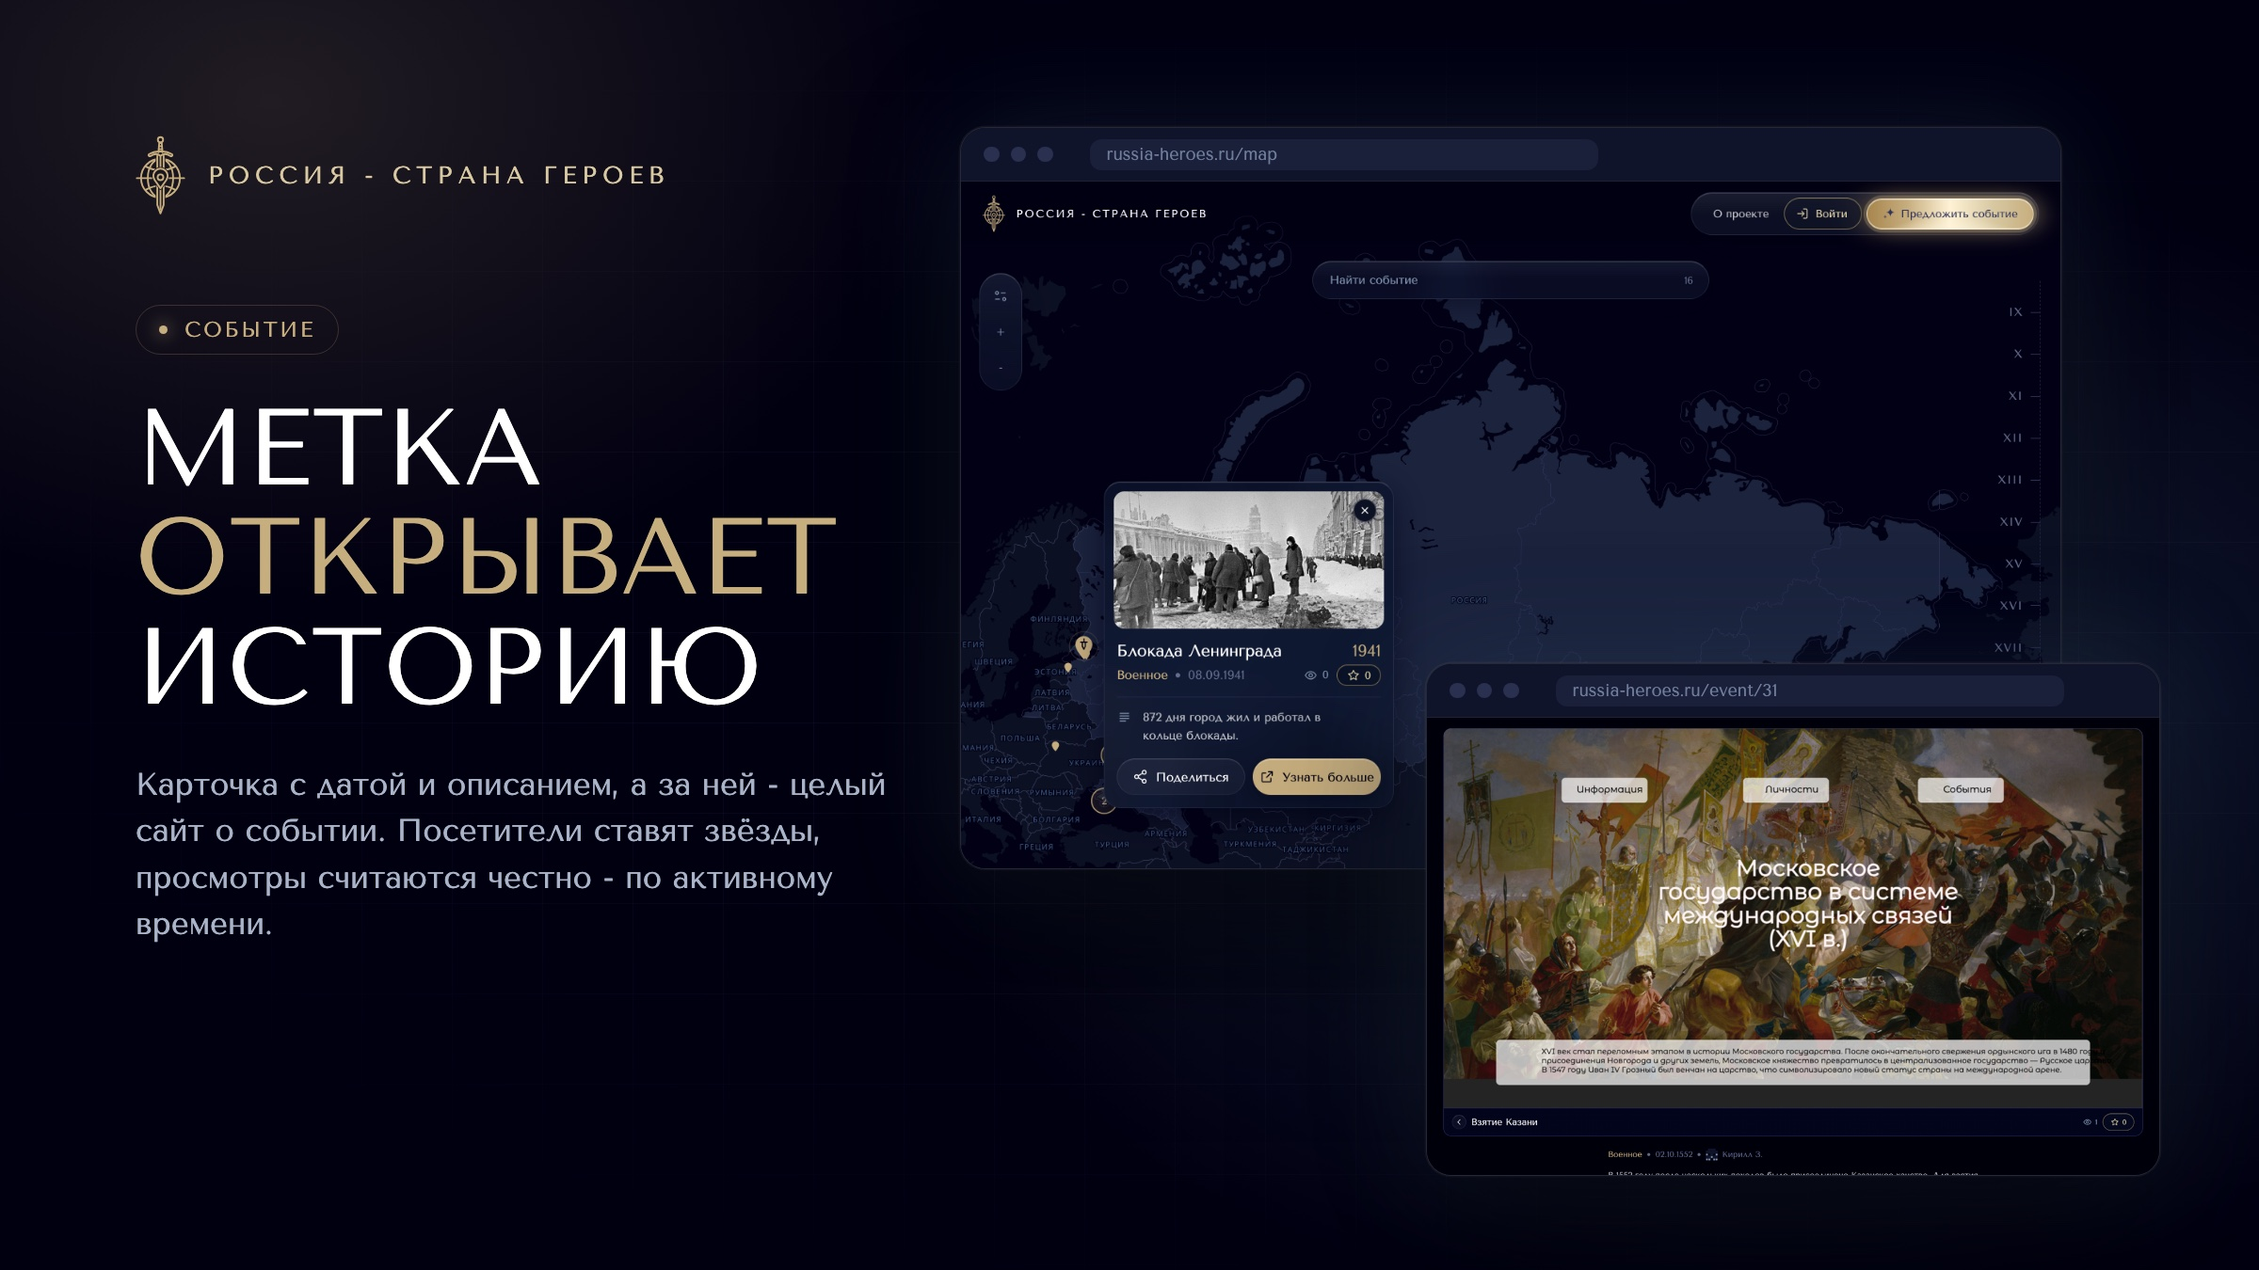
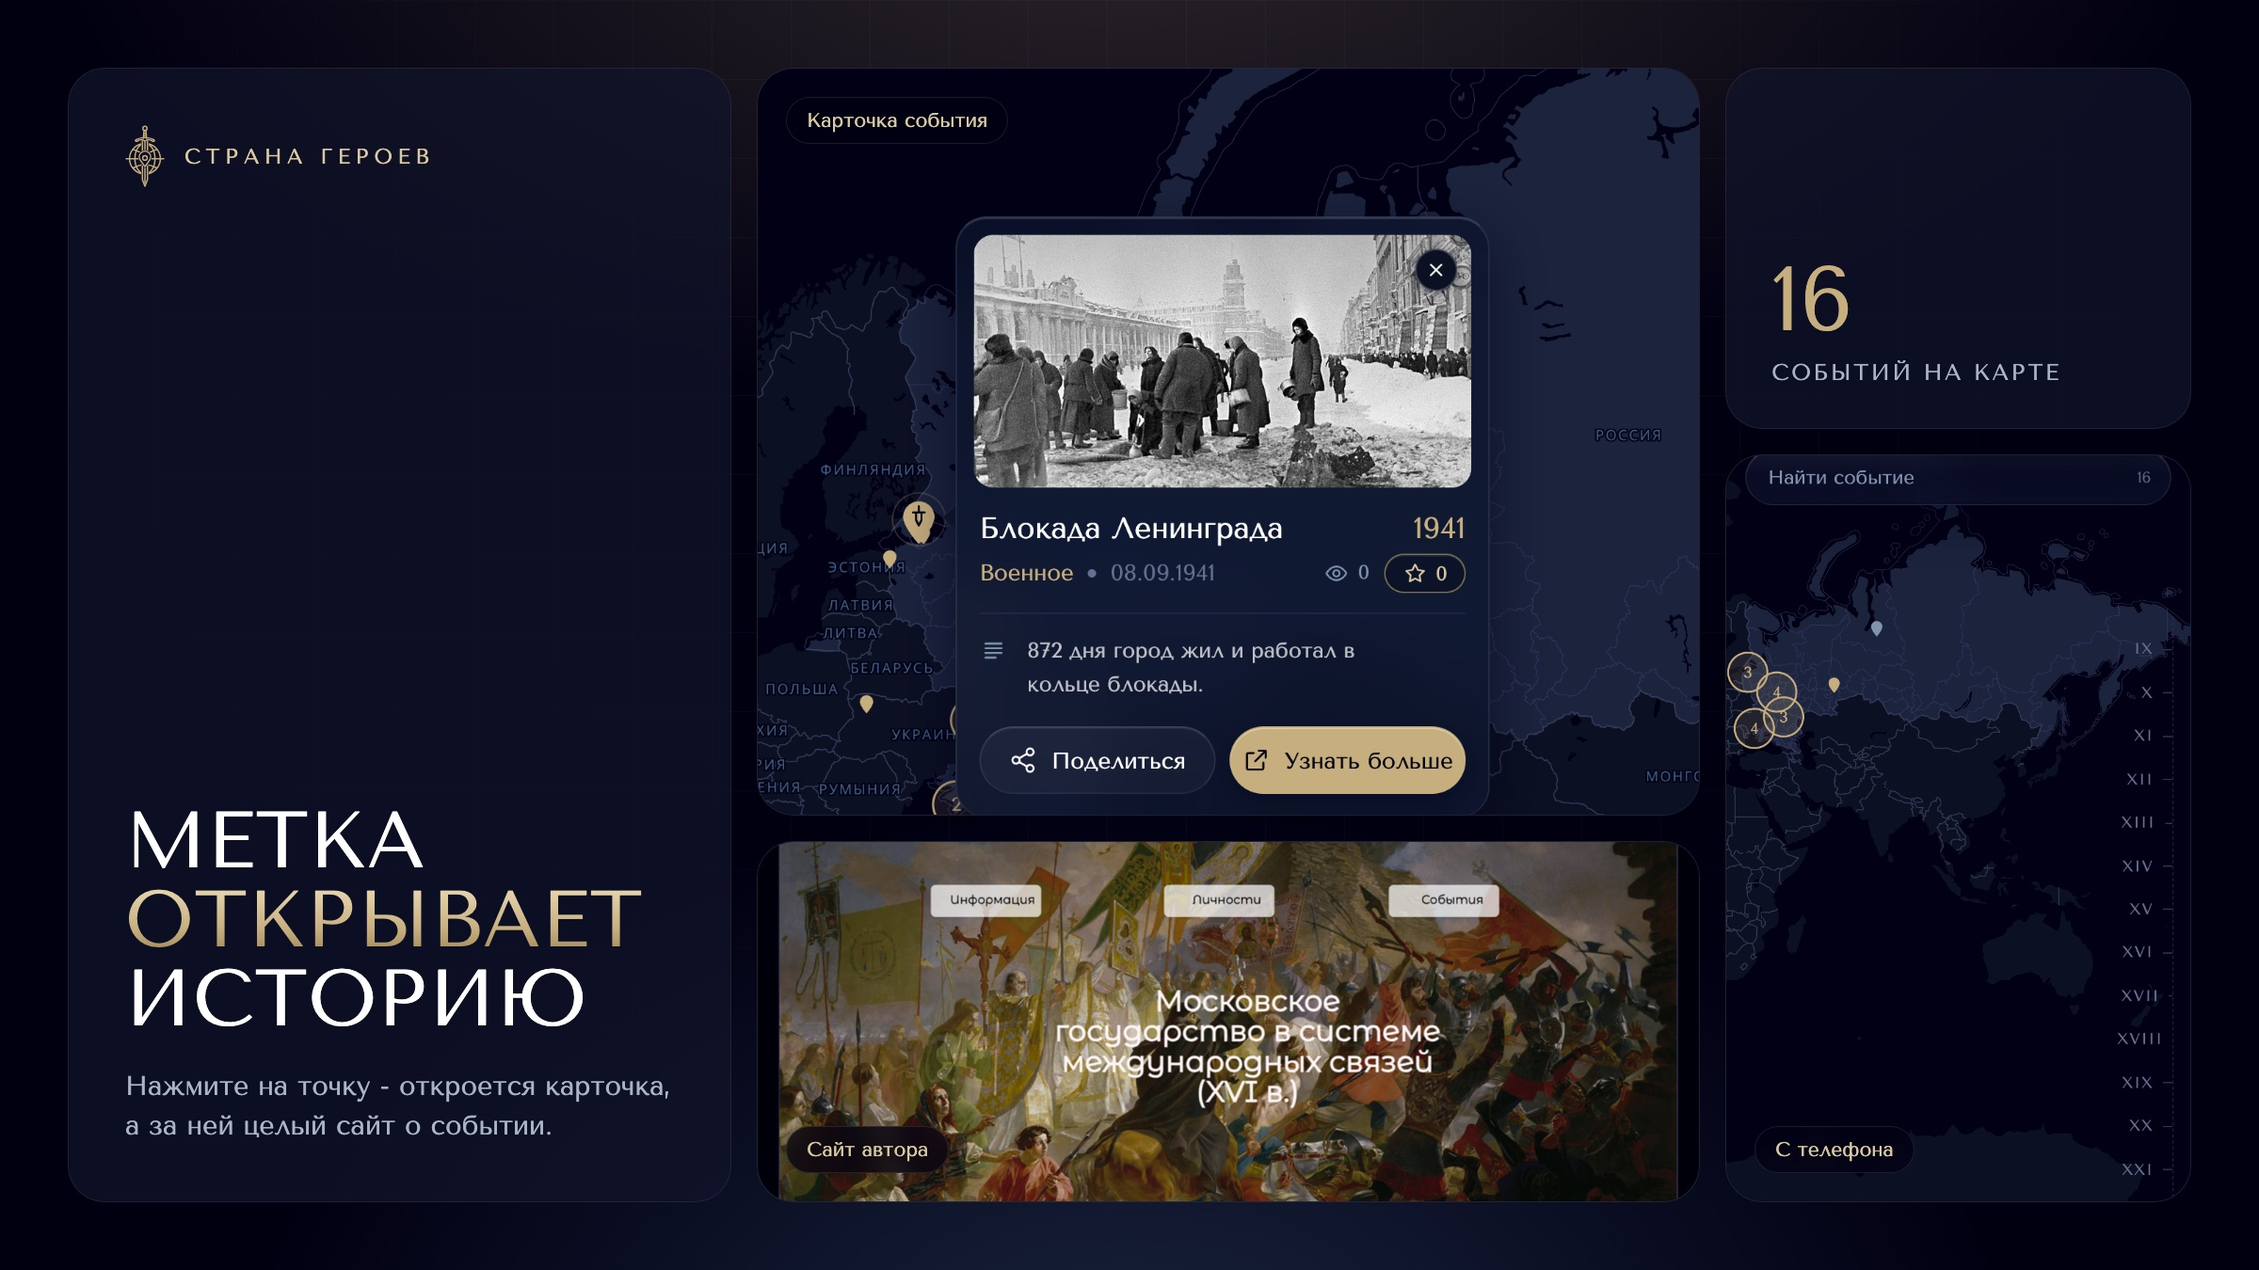
docs: баннеры README в актуальном стиле

diff --git a/docs/banners/banner.html b/docs/banners/banner.html
@@ -6,107 +6,125 @@
 <style>
   @font-face { font-family: 'Tenor Sans'; src: url(../../frontend/public/fonts/tenor-sans-cyrillic.woff2) format('woff2'); unicode-range: U+0400-045F; }
   @font-face { font-family: 'Tenor Sans'; src: url(../../frontend/public/fonts/tenor-sans-latin.woff2) format('woff2'); unicode-range: U+0000-00FF, U+2000-206F; }
-  :root { --ink: #010011; --gold: #C7AE7F; --gold-soft: #D8C9A2; --text-2: #A9B4C8; --line: rgba(199, 174, 127, 0.22); }
+  :root { --ink: #010011; --gold: #C7AE7F; --gold-soft: #D8C9A2; --text-2: #A9B4C8; --line: rgba(199, 174, 127, 0.24); --card: rgba(16, 20, 42, 0.72); }
   * { box-sizing: border-box; }
   html, body { margin: 0; width: 1600px; height: 900px; overflow: hidden; }
-  body {
-    font-family: 'Tenor Sans', sans-serif; color: #fff; position: relative;
-    background:
-      radial-gradient(900px 600px at 78% 58%, rgba(69, 102, 142, 0.35), transparent 70%),
-      radial-gradient(700px 500px at 12% 8%, rgba(199, 174, 127, 0.16), transparent 70%),
-      var(--ink);
-  }
-  /* Тонкая сетка меридианов, гаснет к краям. */
-  body::before {
-    content: ''; position: absolute; inset: 0; pointer-events: none;
-    background-image: linear-gradient(rgba(129, 148, 174, 0.07) 1px, transparent 1px), linear-gradient(90deg, rgba(129, 148, 174, 0.07) 1px, transparent 1px);
-    background-size: 64px 64px;
-    mask-image: radial-gradient(ellipse at 60% 50%, #000 20%, transparent 75%);
-  }
-  .copy { position: absolute; left: 96px; top: 96px; width: 560px; z-index: 2; }
-  .brand { display: flex; align-items: center; gap: 16px; font-size: 17px; letter-spacing: 0.22em; text-transform: uppercase; color: var(--gold-soft); }
-  .brand img { height: 56px; }
-  .eyebrow { margin-top: 64px; display: inline-flex; align-items: center; gap: 12px; padding: 8px 16px; border: 1px solid var(--line); border-radius: 999px; font-size: 15px; letter-spacing: 0.12em; text-transform: uppercase; color: var(--gold); }
-  .eyebrow::before { content: ''; width: 6px; height: 6px; border-radius: 50%; background: var(--gold); box-shadow: 0 0 12px var(--gold); }
-  h1 { margin: 28px 0 0; font-weight: 400; font-size: 76px; line-height: 1.02; text-transform: uppercase; letter-spacing: 0.01em; }
-  h1 em { font-style: normal; color: var(--gold); }
-  p { margin: 28px 0 0; font-size: 22px; line-height: 1.5; color: var(--text-2); }
-  .chips { margin-top: 36px; display: flex; gap: 12px; flex-wrap: wrap; }
-  .chip { display: inline-flex; align-items: center; gap: 10px; padding: 10px 18px; border-radius: 999px; background: rgba(255, 255, 255, 0.04); border: 1px solid rgba(255, 255, 255, 0.08); font-size: 17px; }
-  .chip i { width: 10px; height: 10px; border-radius: 50%; }
-
-  .browser {
-    position: absolute; border-radius: 18px; overflow: hidden; background: #0C1023;
-    border: 1px solid rgba(255, 255, 255, 0.1);
-    box-shadow: 0 50px 120px rgba(0, 0, 0, 0.7), 0 0 0 1px rgba(199, 174, 127, 0.08), 0 0 80px rgba(69, 102, 142, 0.25);
-  }
-  .browser .bar { height: 38px; display: flex; align-items: center; gap: 8px; padding: 0 16px; background: #10142A; border-bottom: 1px solid rgba(255, 255, 255, 0.06); }
-  .browser .bar b { width: 11px; height: 11px; border-radius: 50%; background: #2A3050; }
-  .browser .bar span { margin-left: 18px; flex: 1; max-width: 360px; height: 22px; border-radius: 8px; background: #1A1F3A; color: #6E7D99; font-size: 12px; line-height: 22px; padding-left: 12px; }
-  .browser img { display: block; width: 100%; }
-
-  .phone {
-    position: absolute; width: 270px; padding: 10px; border-radius: 44px; background: #05061A;
-    border: 1px solid rgba(255, 255, 255, 0.14);
-    box-shadow: 0 40px 100px rgba(0, 0, 0, 0.8), inset 0 0 0 2px #1A1F3A;
-  }
-  .phone img { display: block; width: 100%; border-radius: 34px; }
-
-  section { display: none; }
+  body { font-family: 'Tenor Sans', sans-serif; color: #fff; position: relative; background: var(--ink); }
+  section { display: none; position: absolute; inset: 0; }
   body.hero #hero, body.event #event, body.guide #guide { display: block; }
+
+  /* Фон: свечение сверху и снизу, сетка меридианов гаснет к краям. */
+  .bg { position: absolute; inset: 0; pointer-events: none;
+    background: radial-gradient(1100px 520px at 50% -8%, rgba(199, 174, 127, 0.22), transparent 70%),
+                radial-gradient(900px 600px at 50% 110%, rgba(69, 102, 142, 0.35), transparent 70%); }
+  .bg::before { content: ''; position: absolute; inset: 0;
+    background-image: linear-gradient(rgba(129, 148, 174, 0.08) 1px, transparent 1px), linear-gradient(90deg, rgba(129, 148, 174, 0.08) 1px, transparent 1px);
+    background-size: 56px 56px; mask-image: radial-gradient(ellipse at 50% 30%, #000 10%, transparent 70%); }
+
+  .brand { display: inline-flex; align-items: center; gap: 14px; font-size: 15px; letter-spacing: 0.24em; text-transform: uppercase; color: var(--gold-soft); }
+  .brand img { height: 44px; }
+  .pill { align-self: flex-start; display: inline-flex; align-items: center; gap: 10px; padding: 8px 18px; border: 1px solid var(--line); border-radius: 999px; background: rgba(199, 174, 127, 0.06);
+    font-size: 14px; letter-spacing: 0.14em; text-transform: uppercase; color: var(--gold); }
+  .pill::before { content: ''; width: 6px; height: 6px; border-radius: 50%; background: var(--gold); box-shadow: 0 0 10px var(--gold); }
+  h1 { margin: 0; font-weight: 400; text-transform: uppercase; letter-spacing: 0.01em; line-height: 1; }
+  h1 em { font-style: normal; background: linear-gradient(180deg, #F1E3BF, #C7AE7F 60%, #8E7647); -webkit-background-clip: text; color: transparent; }
+  .sub { margin: 0; color: var(--text-2); font-size: 22px; line-height: 1.45; }
+
+  .browser { border-radius: 16px; overflow: hidden; background: #0C1023; border: 1px solid rgba(255, 255, 255, 0.12);
+    box-shadow: 0 60px 140px rgba(0, 0, 0, 0.75), 0 0 0 1px rgba(199, 174, 127, 0.1), 0 -20px 120px rgba(199, 174, 127, 0.12); }
+  .browser .bar { height: 34px; display: flex; align-items: center; gap: 7px; padding: 0 14px; background: #10142A; border-bottom: 1px solid rgba(255, 255, 255, 0.06); }
+  .browser .bar b { width: 10px; height: 10px; border-radius: 50%; background: #2A3050; }
+  .browser .bar span { margin: 0 auto; width: 300px; height: 20px; border-radius: 7px; background: #1A1F3A; color: #6E7D99; font-size: 11px; line-height: 20px; text-align: center; }
+  .browser img { display: block; width: 100%; }
+  .phone { padding: 9px; border-radius: 42px; background: #05061A; border: 1px solid rgba(255, 255, 255, 0.16);
+    box-shadow: 0 40px 100px rgba(0, 0, 0, 0.85), inset 0 0 0 2px #1A1F3A, 0 0 60px rgba(199, 174, 127, 0.15); }
+  .phone img { display: block; width: 100%; border-radius: 33px; }
+
+  /* hero: заголовок по центру, окно в перспективе уходит за нижний край. */
+  #hero .top { position: absolute; top: 64px; left: 0; right: 0; text-align: center; z-index: 3; }
+  #hero h1 { margin-top: 30px; font-size: 80px; }
+  #hero .sub { margin: 22px auto 0; width: 760px; }
+  #hero .stage { position: absolute; left: 50%; top: 420px; width: 1180px; margin-left: -590px; perspective: 2200px; z-index: 1; }
+  #hero .stage .browser { transform: rotateX(20deg); transform-origin: 50% 0; }
+  /* Метки на юго-западе карты: показываем низ кадра, пустую Арктику срезаем. */
+  #hero .stage .browser img { height: 520px; object-fit: cover; object-position: 30% 92%; }
+  #hero .phone { position: absolute; left: 1250px; top: 410px; width: 230px; transform: rotate(4deg); z-index: 2; }
+  #hero .fade { position: absolute; left: 0; right: 0; bottom: 0; height: 200px; z-index: 2; background: linear-gradient(transparent, var(--ink)); }
+
+  /* event: bento-сетка. */
+  #event .grid { position: absolute; inset: 48px; display: grid; gap: 18px; grid-template-columns: 470px 1fr 330px; grid-template-rows: 1fr 1fr 1fr; }
+  .cell { position: relative; border-radius: 26px; overflow: hidden; background: var(--card); border: 1px solid rgba(255, 255, 255, 0.08); }
+  .cell.text { padding: 40px; display: flex; flex-direction: column; }
+  .cell.text h1 { margin-top: auto; font-size: 56px; }
+  .cell.text .sub { margin-top: 20px; font-size: 19px; }
+  .crop { position: absolute; inset: 0; background-repeat: no-repeat; }
+  .stat { padding: 30px 32px; display: flex; flex-direction: column; justify-content: flex-end; }
+  .stat b { font-weight: 400; font-size: 64px; line-height: 1; color: var(--gold); }
+  .stat span { margin-top: 10px; font-size: 16px; letter-spacing: 0.1em; text-transform: uppercase; color: var(--text-2); }
+  .label { position: absolute; left: 20px; bottom: 20px; padding: 8px 14px; border-radius: 999px; background: rgba(1, 0, 17, 0.7); backdrop-filter: blur(8px); border: 1px solid rgba(255, 255, 255, 0.1); font-size: 14px; color: var(--gold-soft); }
+
+  /* guide: заголовок слева, два окна веером справа. */
+  #guide .copy { position: absolute; left: 96px; top: 0; bottom: 0; width: 600px; display: flex; flex-direction: column; justify-content: center; z-index: 3; }
+  #guide h1 { margin-top: 30px; font-size: 76px; }
+  #guide .sub { margin-top: 26px; }
+  #guide .steps { margin-top: 34px; display: flex; gap: 10px; }
+  #guide .steps span { padding: 9px 16px; border-radius: 999px; border: 1px solid rgba(255, 255, 255, 0.12); background: rgba(255, 255, 255, 0.04); font-size: 16px; color: var(--text-2); }
+  #guide .fan { position: absolute; left: 700px; top: 120px; width: 900px; height: 700px; perspective: 1800px; }
+  #guide .fan .browser { position: absolute; width: 680px; }
+  #guide .fan .back { left: 120px; top: 0; transform: rotateY(-16deg) rotateZ(3deg); opacity: 0.85; }
+  #guide .fan .front { left: 20px; top: 200px; transform: rotateY(-12deg) rotateZ(-2deg); }
 </style>
 <body>
 
 <section id="hero">
-  <div class="copy">
+  <div class="bg"></div>
+  <div class="top">
     <div class="brand"><img src="../../frontend/public/logo.svg" alt="">Россия - страна Героев</div>
-    <div class="eyebrow">Интерактивная карта истории</div>
-    <h1>История России <em>на&nbsp;карте</em></h1>
-    <p>События IX-XXI веков в местах, где они произошли. У каждого - свой сайт, сделанный участником проекта.</p>
-    <div class="chips">
-      <span class="chip"><i style="background:#C7AE7F"></i>Военные</span>
-      <span class="chip"><i style="background:#8194AE"></i>Политические</span>
-      <span class="chip"><i style="background:#B48C9E"></i>Личности</span>
-    </div>
+    <h1>История России <em>на карте</em></h1>
+    <p class="sub">События IX-XXI веков в местах, где они произошли. У каждого свой сайт, сделанный участником проекта.</p>
   </div>
-  <div class="browser" style="left: 690px; top: 150px; width: 820px;">
-    <div class="bar"><b></b><b></b><b></b><span>russia-heroes.ru/map</span></div>
-    <img src="../screenshots/map.png" alt="">
+  <div class="stage">
+    <div class="browser"><div class="bar"><b></b><b></b><b></b><span>russia-heroes.ru</span></div><img src="../screenshots/map.png" alt=""></div>
   </div>
-  <div class="phone" style="left: 1310px; top: 300px; width: 240px;"><img src="../screenshots/mobile-map.png" alt=""></div>
+  <div class="phone"><img src="../screenshots/mobile-map.png" alt=""></div>
+  <div class="fade"></div>
 </section>
 
 <section id="event">
-  <div class="copy">
-    <div class="brand"><img src="../../frontend/public/logo.svg" alt="">Россия - страна Героев</div>
-    <div class="eyebrow">Событие</div>
-    <h1>Метка <em>открывает</em> историю</h1>
-    <p>Карточка с датой и описанием, а за ней - целый сайт о событии. Посетители ставят звёзды, просмотры считаются честно - по активному времени.</p>
-  </div>
-  <div class="browser" style="left: 680px; top: 90px; width: 780px;">
-    <div class="bar"><b></b><b></b><b></b><span>russia-heroes.ru/map</span></div>
-    <img src="../screenshots/map-event.png" alt="">
-  </div>
-  <div class="browser" style="left: 1010px; top: 470px; width: 520px;">
-    <div class="bar"><b></b><b></b><b></b><span>russia-heroes.ru/event/31</span></div>
-    <img src="../screenshots/event.png" alt="">
+  <div class="bg"></div>
+  <div class="grid">
+    <div class="cell text" style="grid-row: 1 / 4;">
+      <div class="brand"><img src="../../frontend/public/logo.svg" alt="">Страна Героев</div>
+      <h1>Метка <em>открывает</em> историю</h1>
+      <p class="sub">Нажмите на точку - откроется карточка, а за ней целый сайт о событии.</p>
+    </div>
+    <div class="cell" style="grid-row: 1 / 3;">
+      <div class="crop" style="background-image: url(../screenshots/map-event.png); background-size: 215%; background-position: 6% 78%;"></div>
+      <span class="label" style="top: 20px; bottom: auto;">Карточка события</span>
+    </div>
+    <div class="cell stat"><b>16</b><span>событий на карте</span></div>
+    <div class="cell" style="grid-row: 2 / 4; grid-column: 3;">
+      <div class="crop" style="background-image: url(../screenshots/mobile-map.png); background-size: 100%; background-position: 50% 30%;"></div>
+      <span class="label">С телефона</span>
+    </div>
+    <div class="cell">
+      <div class="crop" style="background-image: url(../screenshots/event.png); background-size: 100%; background-position: 50% 15%;"></div>
+      <span class="label">Сайт автора</span>
+    </div>
   </div>
 </section>
 
 <section id="guide">
+  <div class="bg"></div>
   <div class="copy">
-    <div class="brand"><img src="../../frontend/public/logo.svg" alt="">Россия - страна Героев</div>
-    <div class="eyebrow">Для авторов</div>
+    <div class="pill">Для авторов</div>
     <h1>Сайт о событии <em>сделает каждый</em></h1>
-    <p>Инструкция из восьми шагов, ZIP-архив в форме заявки, точка на карте. Модератор проверит и опубликует.</p>
+    <p class="sub">Инструкция, ZIP-архив в форме заявки и точка на карте. Модератор проверит и опубликует.</p>
+    <div class="steps"><span>8 шагов</span><span>12 минут</span><span>без кода</span></div>
   </div>
-  <div class="browser" style="left: 700px; top: 90px; width: 820px;">
-    <div class="bar"><b></b><b></b><b></b><span>russia-heroes.ru/guide</span></div>
-    <img src="../screenshots/guide.png" alt="">
-  </div>
-  <div class="browser" style="left: 1010px; top: 500px; width: 520px;">
-    <div class="bar"><b></b><b></b><b></b><span>russia-heroes.ru/about</span></div>
-    <img src="../screenshots/about.png" alt="">
+  <div class="fan">
+    <div class="browser back"><div class="bar"><b></b><b></b><b></b><span>russia-heroes.ru/about</span></div><img src="../screenshots/about.png" alt=""></div>
+    <div class="browser front"><div class="bar"><b></b><b></b><b></b><span>russia-heroes.ru/guide</span></div><img src="../screenshots/guide.png" alt=""></div>
   </div>
 </section>
 
